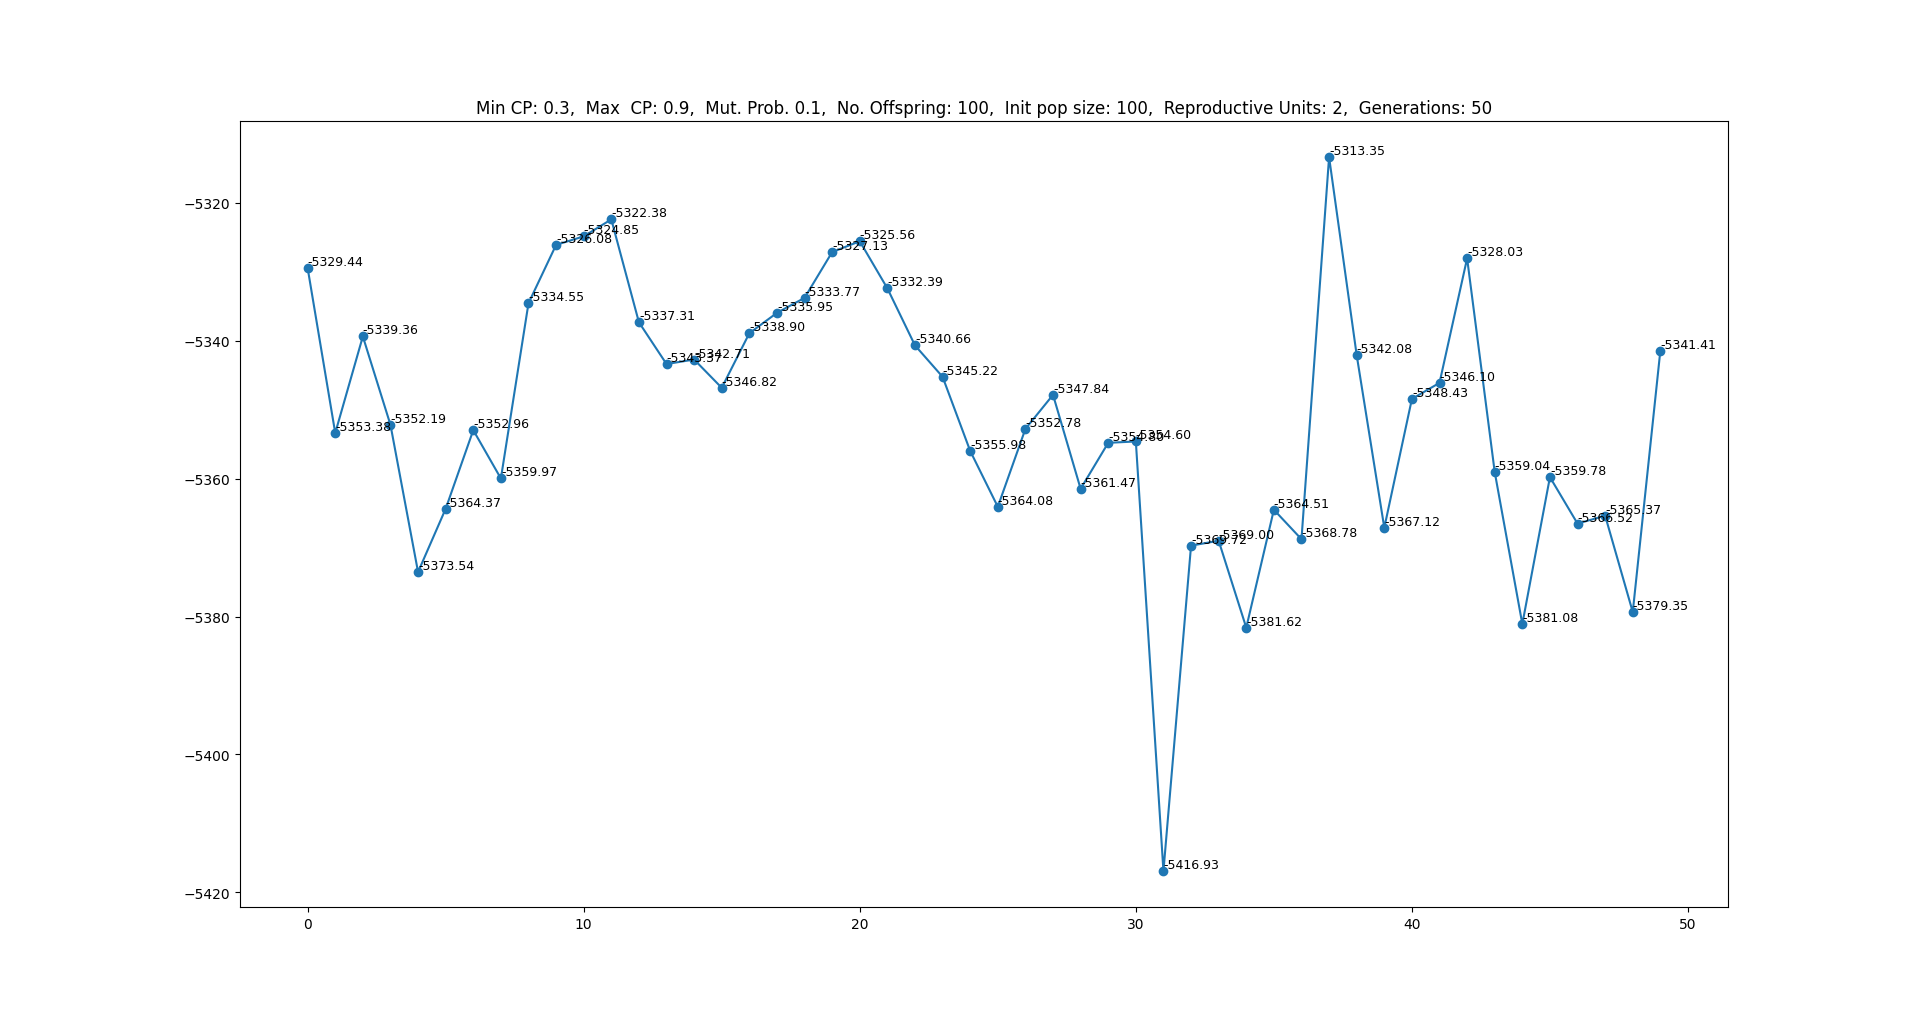
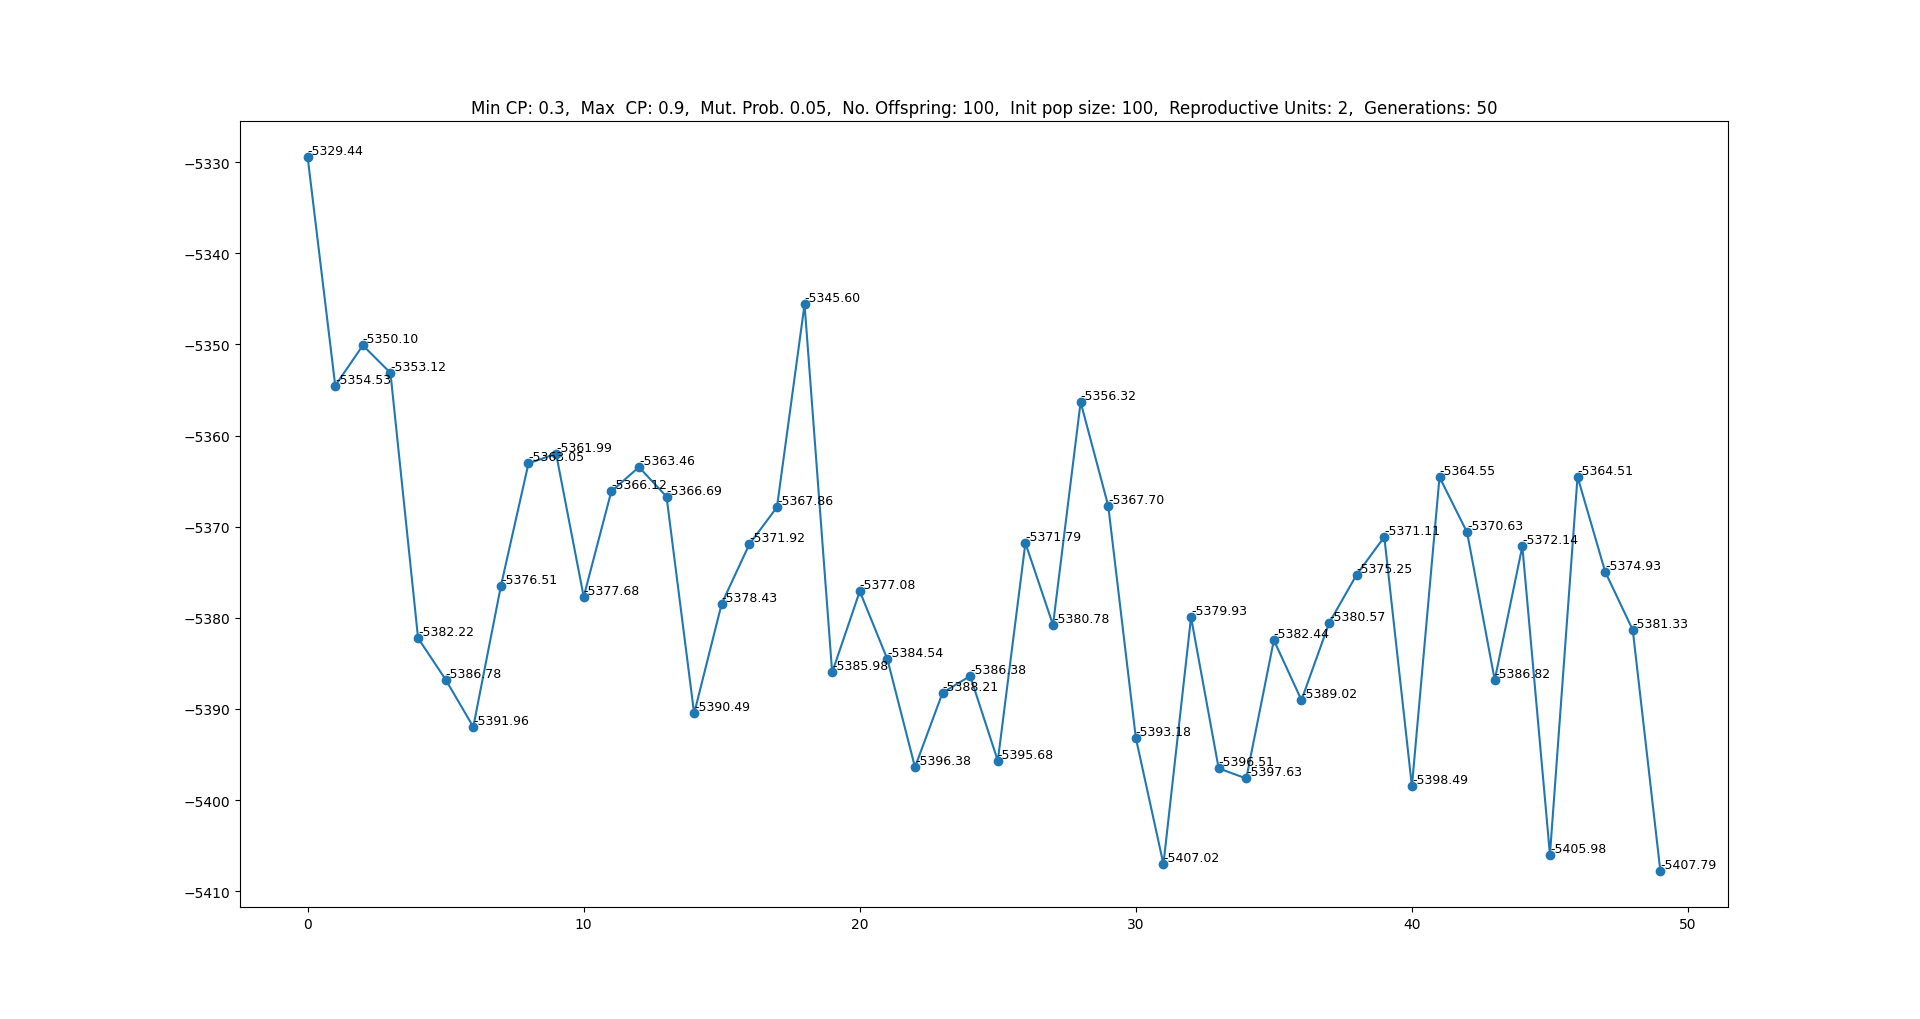
Adding test runs

diff --git a/GA_feature_selection.py b/GA_feature_selection.py
@@ -1,6 +1,6 @@
 # Genetic algorithm for feature selection in metasub dataset.
 
-# python3 GA_feature_selection.py 0.3 0.9 0.2 50 50 4 50
+# python3 GA_feature_selection.py 0.3 0.9 0.2 50 50 4 50 3
     # min crossover point: 0.3
     # max crossover point: 0.9
     # mutation chance: 20%
@@ -8,6 +8,7 @@
     # initial population: 50 
     # reproductive units: 4 
     # Generations: 50 
+    # Number of crossovers: 3
 
 
 # Create a starting population of 10 individuals with either 1 or 0, 
@@ -104,7 +105,7 @@ def select_parents(sorted_models, reproductive_units) :
 # Option 1: Best parent gets to mate with random other parent.
 # Option 2: All parents above the threshold mate randomly to produce the offspring.
 # Option 3: The best mates with many, the second best mates with a few, the third best mates with fewer... etc ...
-def crossover(parents, crossover_min, crossover_max, no_offspring, reproductive_units) :
+def crossover(parents, crossover_min, crossover_max, no_offspring, reproductive_units, no_crossovers) :
     selected_parents = [parent[2] for index, parent in enumerate(parents) if index <= reproductive_units]
 
     while True:
@@ -118,12 +119,34 @@ def crossover(parents, crossover_min, crossover_max, no_offspring, reproductive_
 
     offspring_population = []
 
-    # Create 50 offspring 
-    for offspring_number in range(no_offspring) :
-        crossover_point = int(rd.uniform(crossover_min, crossover_max)*len(p1))
-        offspring = p1[0:crossover_point] + p2[crossover_point:]
+    for _ in range(no_offspring):
+        # Ensure crossover points are unique and sorted
+        crossover_points = sorted(set([int(rd.uniform(crossover_min, crossover_max) * len(p1)) for i in range(no_crossovers)]))
+        
+        offspring = []
+        last_point = 0
+        # Alternate between segments from p1 and p2
+        for i, point in enumerate(crossover_points):
+            if i % 2 == 0:
+                offspring += p1[last_point:point]
+            else:
+                offspring += p2[last_point:point]
+            last_point = point
+        # Add the remaining segment from the appropriate parent
+        if len(crossover_points) % 2 == 0:
+            offspring += p2[last_point:]
+        else:
+            offspring += p1[last_point:]
+
         offspring_population.append(offspring)
+    # Create 50 offspring 
+   # for offspring_number in range(no_offspring) :
+   #     crossover_point = int(rd.uniform(crossover_min, crossover_max)*len(p1))
+    #    offspring = p1[0:crossover_point] + p2[crossover_point:]
+    #    offspring_population.append(offspring)
     
+    #print(offspring_population)
+    #sys.exit()
     return offspring_population
 
 def mutate_offspring(offspring_population, mutation_rate):
@@ -144,7 +167,7 @@ def run_GA(population, predictors, response_variables) :
     # Selects the best suited parents (2, can be changed later)
     parents = select_parents(sorted_models, reproductive_units)
 
-    offspring_population = crossover(parents, crossover_min, crossover_max, no_offspring, reproductive_units)
+    offspring_population = crossover(parents, crossover_min, crossover_max, no_offspring, reproductive_units, no_crossovers)
 
     # mutates each offspring (p = 0.01 for each gene)
     population = mutate_offspring(offspring_population, mutation_rate)
@@ -152,14 +175,23 @@ def run_GA(population, predictors, response_variables) :
     return population, sorted_models[0]
 
 def save_png(best_models):
+    title = "Min CP: " + str(sys.argv[1]) + ", " + \
+            "Max CP: " + str(sys.argv[2]) + ", " + \
+            "Mut. Prob. " + str(sys.argv[3]) + ", " + \
+            "No. Offspring: " + str(sys.argv[4]) + ", " + \
+            "Init pop size: " + str(sys.argv[5]) + ", " + \
+            "Reproductive Units: " + str(sys.argv[6]) + ", " + \
+            "Generations: " + str(sys.argv[7]) + ", " + \
+            "Crossover points: " + str(sys.argv[8])
     plt.figure(figsize=(19.2, 10.2))
     x = range(len(best_models))
     plt.plot(x, best_models, marker='o')  # Plot the points with a marker
     # Annotate each point with its y-value
     for i, value in enumerate(best_models):
         plt.text(x[i], value, f"{value:.2f}", horizontalalignment='left', verticalalignment='bottom', fontsize=9)  
-    plt.title("Min CP: " + str(sys.argv[1]) + ", " + " Max  CP: " + str(sys.argv[2]) + ", " + " Mut. Prob. " + str(sys.argv[3]) + ", " + " No. Offspring: " + str(sys.argv[4]) + ", " + " Init pop size: " + str(sys.argv[5]) + ", " + " Reproductive Units: " + str(sys.argv[6]) + ", " + " Generations: " + str(sys.argv[7]))
-    plt.savefig('fitness.png')  # Save the figure after all annotations
+    plt.title(title)
+    # Save the figure with the timestamped filename
+    plt.savefig(f'{title}.png')
     
 
 #abundance_df, meta_df = load_data_file(metadata_file="/home/andrewbergman/courses/mGPS_GA/complete_metadata.csv", abundance_file="/home/andrewbergman/courses/mGPS_GA/metasub_taxa_abundance.csv")
@@ -173,6 +205,7 @@ no_offspring = int(sys.argv[4])
 init_pop_size = int(sys.argv[5])
 reproductive_units = int(sys.argv[6]) - 1
 no_generations = int(sys.argv[7])
+no_crossovers = int(sys.argv[8])
 
 df = pd.read_csv('/home/andrewbergman/courses/mGPS_GA/first_100') # THIS DATAFRAME CONTAINS THE FIRST 500 ROWS and column 25-4000 are sliced away using awk.
 predictors = extract_predictors(df)
@@ -193,4 +226,4 @@ save_png(best_models)
 for index, model in enumerate(model_predictors) : 
     columns_to_keep = [df.columns[i] for i, keep in enumerate(model) if keep == 1]
 
-    print("Generation:", index, "\n", "Predictors:", columns_to_keep)
+    #print("Generation:", index, "\n", "Predictors:", columns_to_keep)
